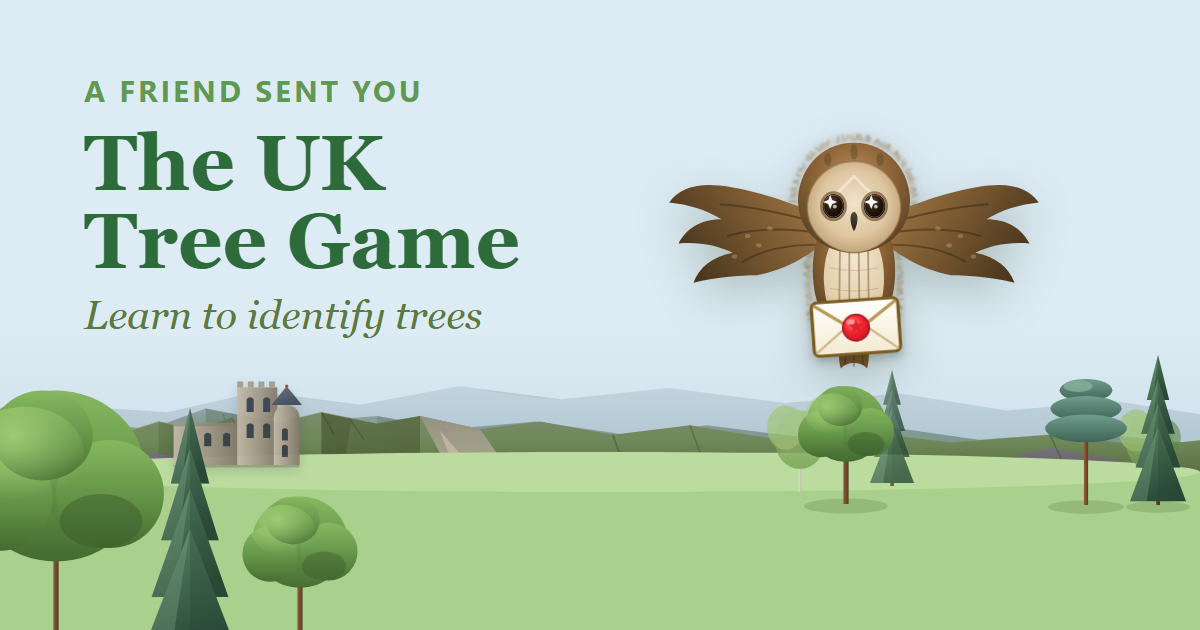
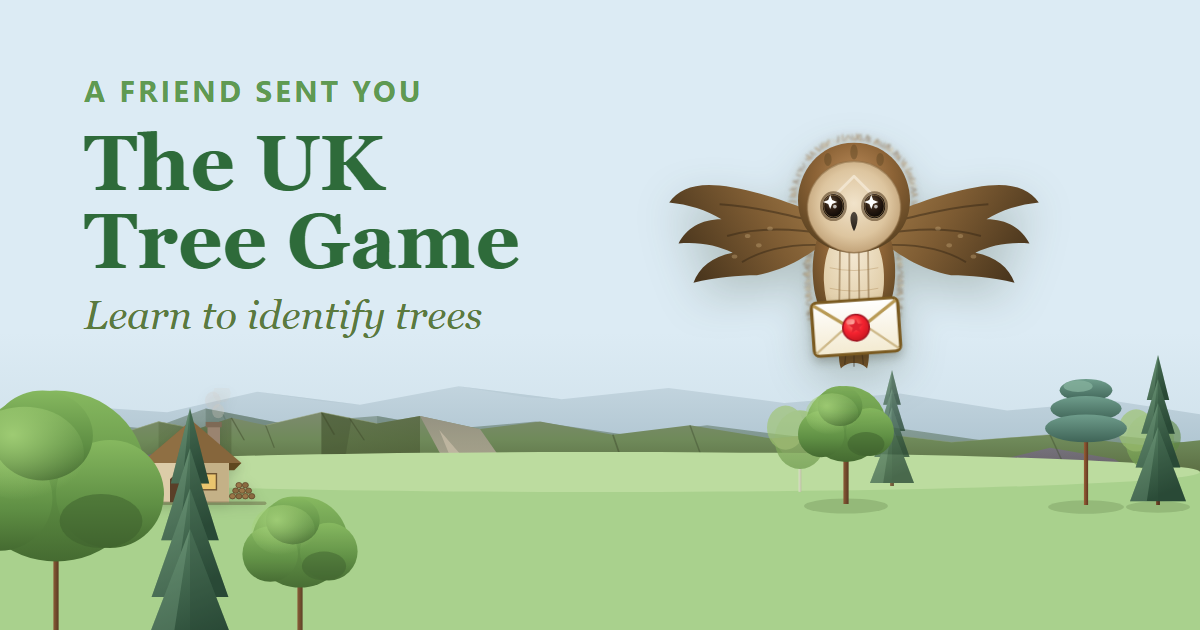
v149: replace background castle with a woodcutter's cottage on the left hillside (2x, small logs, no window cross). OG matches. Remove temp cottage preview files.

Changed region(s): [[0.1233, 0.6032, 0.2467, 0.8143]]

diff --git a/owl-fix.html b/owl-fix.html
@@ -7,9 +7,9 @@ h1{font-size:20px;color:#2e6b3a;margin:20px 16px 4px}p{font-size:14px;color:#6f6
 .z{transform:scale(4.6);transform-origin:center;display:inline-block;margin:34px 60px}
 /* old owl on this page = sleepy (as it appears live at rest on the button) */
 .slp .alert-extras{opacity:0}.slp .sleepy-lids{opacity:1}</style></head><body>
-<h1>🦉 Owl fixes — v148 (latest)</h1>
+<h1>🦉 Owl fixes — v149 (latest)</h1>
 <p>The <b>flying owl in the GIF</b> below now has <b>dense soft down all over</b> (head + body), not a sparse head ruff — and the GIF is 256-colour so it survives. Watch it loop:</p>
-<div style="max-width:480px;margin:0 auto 6px;padding:0 16px"><img src="owl-fly.gif?v=148" style="width:100%;border-radius:14px;border:1px solid #e0d6c0;display:block"></div>
+<div style="max-width:480px;margin:0 auto 6px;padding:0 16px"><img src="owl-fly.gif?v=149" style="width:100%;border-radius:14px;border:1px solid #e0d6c0;display:block"></div>
 <p style="margin-bottom:18px"><b>Results-page button owl</b> (below): awake, open eyes with ✦ sparkle, soft fluff — at real 46px size.</p>
 <div class="row">
   <div class="card"><div class="z"><span class="slp" style="position:relative;display:inline-block;width:46px;height:46px;border-radius:50%;overflow:hidden;background:radial-gradient(circle at 38% 32%,#8FC0E8,#3D72A8 60%,#285685);box-shadow:0 2px 5px rgba(20,50,90,.45), inset 0 1px 2px rgba(255,255,255,.55), inset 0 -3px 6px rgba(15,45,85,.4)"><span style="position:absolute;inset:0;display:flex;align-items:center;justify-content:center"><svg style="height:44px;width:auto;display:block" class="so-owl" viewBox="64 34 172 316" xmlns="http://www.w3.org/2000/svg"><defs><radialGradient id="fA_body" cx="50%" cy="36%" r="72%"><stop offset="0%" stop-color="#b48758"/><stop offset="45%" stop-color="#8c6336"/><stop offset="100%" stop-color="#574020"/></radialGradient><radialGradient id="fA_head" cx="50%" cy="38%" r="64%"><stop offset="0%" stop-color="#bb8c5b"/><stop offset="60%" stop-color="#8f693a"/><stop offset="100%" stop-color="#604726"/></radialGradient><radialGradient id="fA_disc" cx="50%" cy="46%" r="62%"><stop offset="0%" stop-color="#f1e3ca"/><stop offset="60%" stop-color="#ddc59f"/><stop offset="100%" stop-color="#b59367"/></radialGradient><radialGradient id="fA_belly" cx="50%" cy="26%" r="84%"><stop offset="0%" stop-color="#f4e9d3"/><stop offset="68%" stop-color="#e2cfab"/><stop offset="100%" stop-color="#c0a578"/></radialGradient><radialGradient id="fA_eye" cx="40%" cy="34%" r="68%"><stop offset="0%" stop-color="#604a34"/><stop offset="50%" stop-color="#281a11"/><stop offset="100%" stop-color="#0a0604"/></radialGradient><linearGradient id="fA_beak" x1="0" y1="0" x2="0" y2="1"><stop offset="0%" stop-color="#544a3f"/><stop offset="100%" stop-color="#241f19"/></linearGradient><radialGradient id="fA_wing" cx="40%" cy="30%" r="80%"><stop offset="0%" stop-color="#8a6538"/><stop offset="100%" stop-color="#4d381f"/></radialGradient><radialGradient id="fA_halo" cx="50%" cy="42%" r="60%"><stop offset="0%" stop-color="#7a5a32" stop-opacity="0"/><stop offset="72%" stop-color="#7a5a32" stop-opacity="0"/><stop offset="90%" stop-color="#8a663a" stop-opacity="0.55"/><stop offset="100%" stop-color="#6b4d28" stop-opacity="0.9"/></radialGradient><filter id="fA_soft" x="-20%" y="-20%" width="140%" height="140%"><feGaussianBlur stdDeviation="2.4"/></filter><filter id="fA_soft2" x="-25%" y="-25%" width="150%" height="150%"><feGaussianBlur stdDeviation="3.6"/></filter></defs>
@@ -201,7 +201,7 @@ h1{font-size:20px;color:#2e6b3a;margin:20px 16px 4px}p{font-size:14px;color:#6f6
 <!-- feet -->
 <g><path d="M128 314 C128 326 132 332 137 332 C142 332 142 326 140 314 Z" fill="#cdb083"/><path d="M160 314 C160 326 164 332 169 332 C174 332 172 326 172 314 Z" fill="#cdb083"/><g stroke="#352819" stroke-width="2.6" stroke-linecap="round"><path d="M133 332 l-5 7 M136 333 l0 8 M139 332 l5 7"/><path d="M165 332 l-5 7 M168 333 l0 8 M171 332 l5 7"/></g></g>
 </svg>
-</span><span style="position:absolute;inset:3px;border-radius:50%;border:1px dashed rgba(232,244,255,.6)"></span></span></div><div class="lab">AFTER (v148)</div><div class="sub">awake · ✦ sparkle · soft fluff</div></div>
+</span><span style="position:absolute;inset:3px;border-radius:50%;border:1px dashed rgba(232,244,255,.6)"></span></span></div><div class="lab">AFTER (v149)</div><div class="sub">awake · ✦ sparkle · soft fluff</div></div>
 </div>
 <div class="row">
   <div class="card"><svg style="height:230px;width:auto;display:block" class="so-owl" viewBox="64 34 172 316" xmlns="http://www.w3.org/2000/svg"><defs><radialGradient id="fA_body" cx="50%" cy="36%" r="72%"><stop offset="0%" stop-color="#b48758"/><stop offset="45%" stop-color="#8c6336"/><stop offset="100%" stop-color="#574020"/></radialGradient><radialGradient id="fA_head" cx="50%" cy="38%" r="64%"><stop offset="0%" stop-color="#bb8c5b"/><stop offset="60%" stop-color="#8f693a"/><stop offset="100%" stop-color="#604726"/></radialGradient><radialGradient id="fA_disc" cx="50%" cy="46%" r="62%"><stop offset="0%" stop-color="#f1e3ca"/><stop offset="60%" stop-color="#ddc59f"/><stop offset="100%" stop-color="#b59367"/></radialGradient><radialGradient id="fA_belly" cx="50%" cy="26%" r="84%"><stop offset="0%" stop-color="#f4e9d3"/><stop offset="68%" stop-color="#e2cfab"/><stop offset="100%" stop-color="#c0a578"/></radialGradient><radialGradient id="fA_eye" cx="40%" cy="34%" r="68%"><stop offset="0%" stop-color="#604a34"/><stop offset="50%" stop-color="#281a11"/><stop offset="100%" stop-color="#0a0604"/></radialGradient><linearGradient id="fA_beak" x1="0" y1="0" x2="0" y2="1"><stop offset="0%" stop-color="#544a3f"/><stop offset="100%" stop-color="#241f19"/></linearGradient><radialGradient id="fA_wing" cx="40%" cy="30%" r="80%"><stop offset="0%" stop-color="#8a6538"/><stop offset="100%" stop-color="#4d381f"/></radialGradient><radialGradient id="fA_halo" cx="50%" cy="42%" r="60%"><stop offset="0%" stop-color="#7a5a32" stop-opacity="0"/><stop offset="72%" stop-color="#7a5a32" stop-opacity="0"/><stop offset="90%" stop-color="#8a663a" stop-opacity="0.55"/><stop offset="100%" stop-color="#6b4d28" stop-opacity="0.9"/></radialGradient><filter id="fA_soft" x="-20%" y="-20%" width="140%" height="140%"><feGaussianBlur stdDeviation="2.4"/></filter><filter id="fA_soft2" x="-25%" y="-25%" width="150%" height="150%"><feGaussianBlur stdDeviation="3.6"/></filter></defs>
@@ -395,5 +395,5 @@ h1{font-size:20px;color:#2e6b3a;margin:20px 16px 4px}p{font-size:14px;color:#6f6
 </svg>
 <div class="lab">AFTER · large</div></div>
 </div>
-<p style="padding-bottom:24px">Live as <b>v148</b>. On your phone: open <b>…/?fresh=1</b>, reopen, check Settings → About → v148.</p>
+<p style="padding-bottom:24px">Live as <b>v149</b>. On your phone: open <b>…/?fresh=1</b>, reopen, check Settings → About → v149.</p>
 </body></html>

diff --git a/sw.js b/sw.js
@@ -21,7 +21,7 @@
  * exactly the app (migrated from /jans-tree-game/ in v115). Registered HTTPS-only
  * from the HTML, so the file:// copy and the local http preview never touch it.
  */
-const VERSION = 148;
+const VERSION = 149;
 const CACHE = 'jtg-v' + VERSION;
 
 self.addEventListener('install', (event) => {